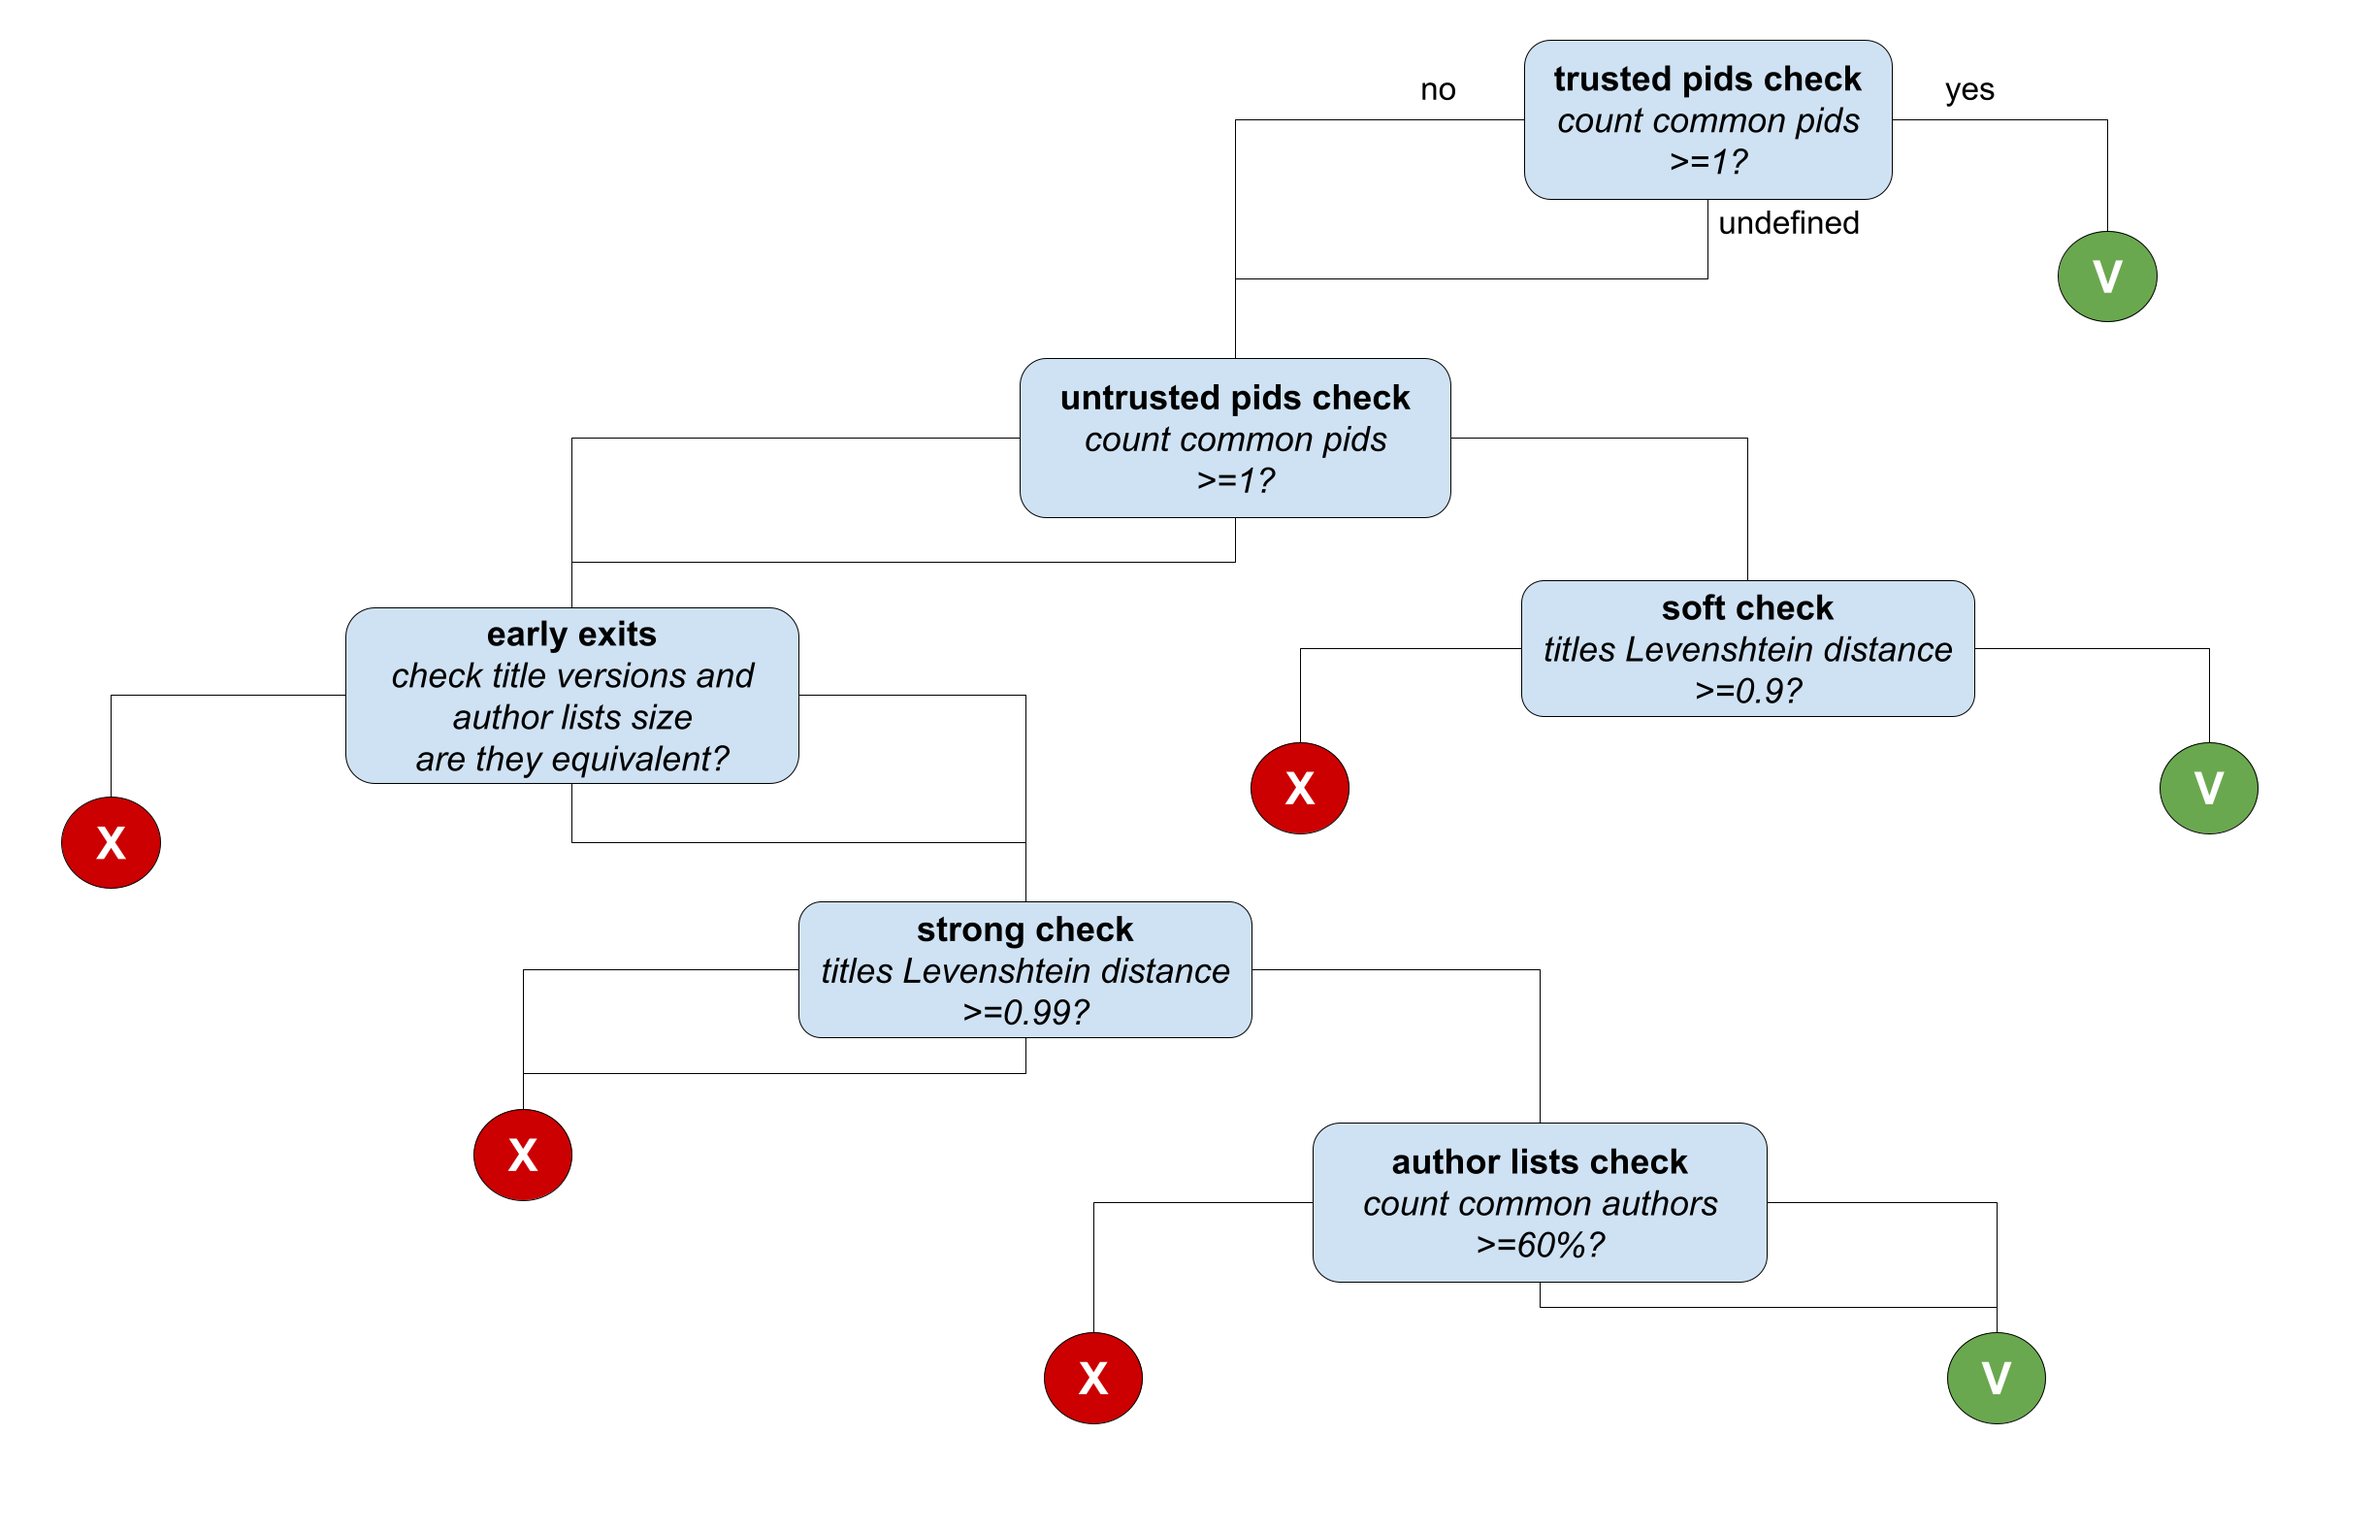
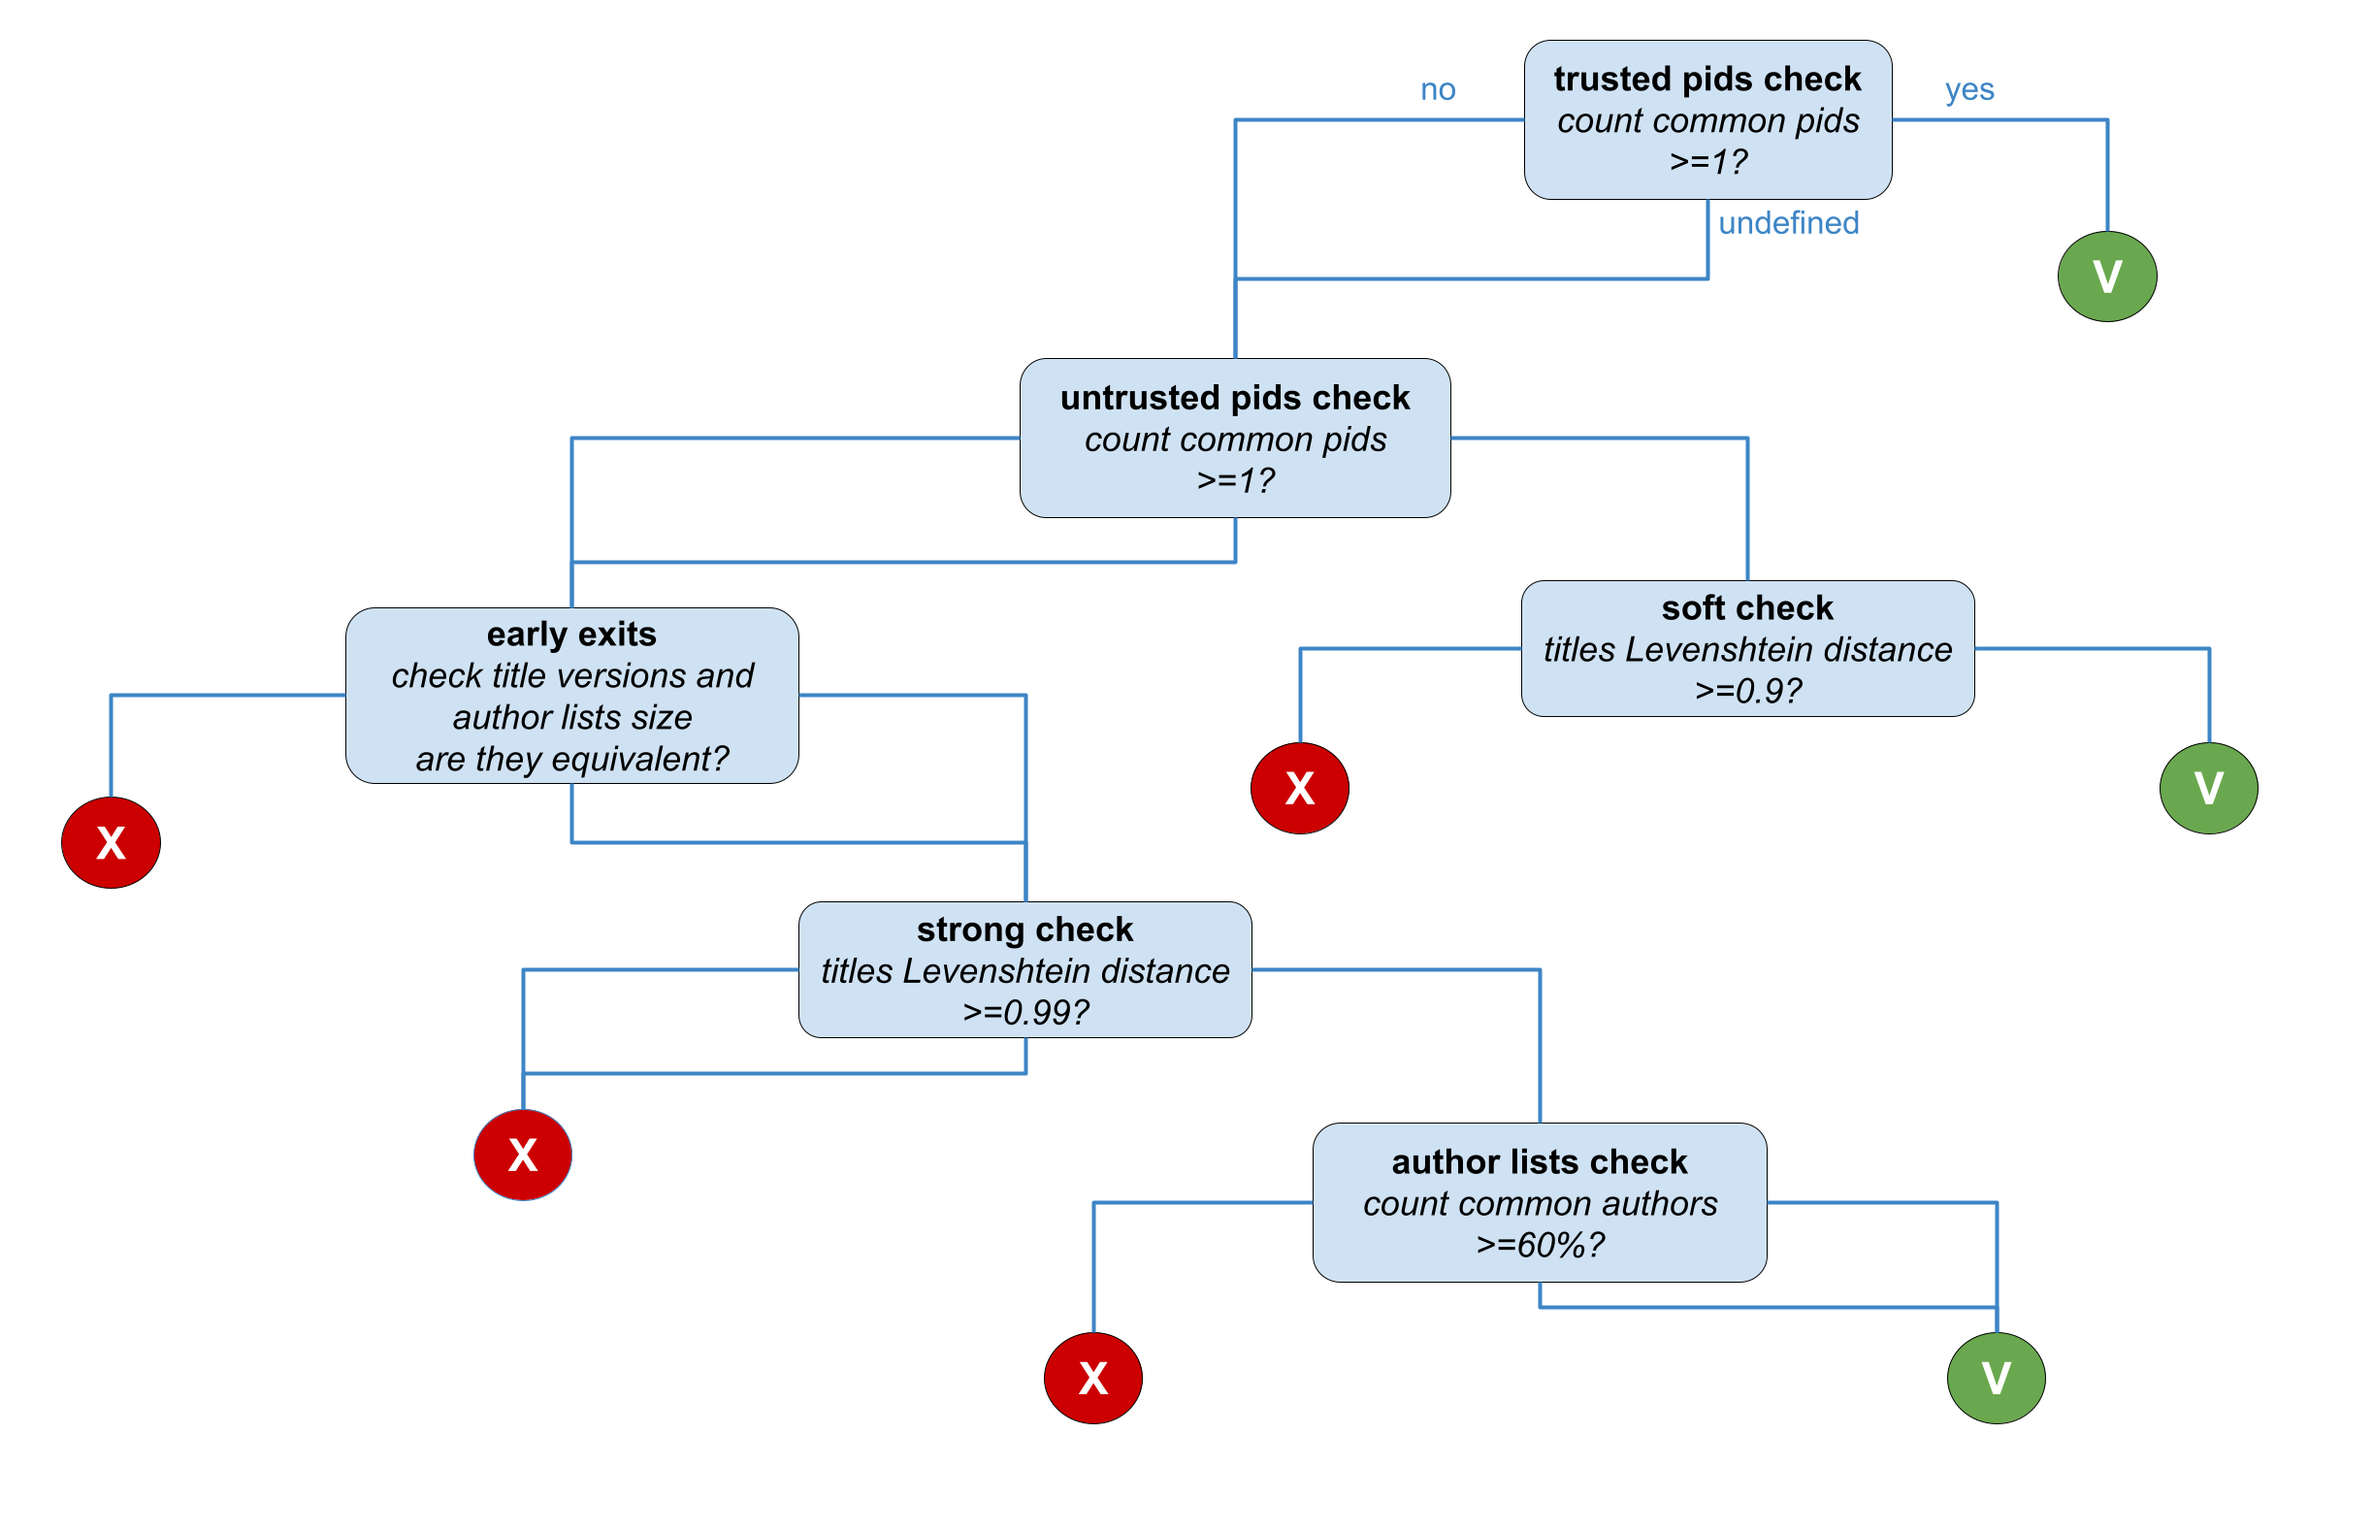
decision trees updated and link of images added in comments

diff --git a/docs/data-provision/deduplication/research-products.md b/docs/data-provision/deduplication/research-products.md
@@ -37,6 +37,8 @@ The comparison goes through different stages:
     <img loading="lazy" alt="Publications Decision Tree" src="/img/docs/decisiontree-publication.png" width="100%" className="img_node_modules-@docusaurus-theme-classic-lib-theme-MDXComponents-Img-styles-module"/>
 </p>
 
+[//]: # (Link to the image: https://docs.google.com/drawings/d/19SIilTp1vukw6STMZuPMdc0pv0ODYCiOxP7OU3iPWK8/edit?usp=sharing)
+
 #### Software
 For each pair of software in a cluster the following strategy (depicted in the figure below) is applied.
 The comparison goes through different stages:
@@ -48,6 +50,8 @@ The comparison goes through different stages:
     <img loading="lazy" alt="Software Decision Tree" src="/img/docs/decisiontree-software.png" width="85%" className="img_node_modules-@docusaurus-theme-classic-lib-theme-MDXComponents-Img-styles-module"/>
 </p>
 
+[//]: # (Link to the image: https://docs.google.com/drawings/d/19gd1-GTOEEo6awMObGRkYFhpAlO_38mfbDFFX0HAkuo/edit?usp=sharing)
+
 #### Datasets and Other types of research products
 For each pair of datasets or other types of research products in a cluster the strategy depicted in the figure below is applied.
 The decision tree is almost identical to the publication decision tree, with the only exception of the *instance type check* stage. Since such type of record does not have a relatable instance type, the check is not performed and the decision tree node is skipped.
@@ -55,6 +59,8 @@ The decision tree is almost identical to the publication decision tree, with the
 <p align="center">
     <img loading="lazy" alt="Dataset and Other types of research products Decision Tree" src="/img/docs/decisiontree-dataset-orp.png" width="90%" className="img_node_modules-@docusaurus-theme-classic-lib-theme-MDXComponents-Img-styles-module"/>
 </p>
+
+[//]: # (Link to the image: https://docs.google.com/drawings/d/1uBa7Bw2KwBRDUYIfyRr_Keol7UOeyvMNN7MPXYLg4qw/edit?usp=sharing)
 
 ### Duplicates grouping (transitive closure)
 

diff --git a/docs/data-provision/deduplication/organizations.md b/docs/data-provision/deduplication/organizations.md
@@ -46,6 +46,8 @@ The comparison goes through the following decision tree:
     <img loading="lazy" alt="Organization Decision Tree" src="/img/docs/decisiontree-organization.png" width="100%" className="img_node_modules-@docusaurus-theme-classic-lib-theme-MDXComponents-Img-styles-module"/>
 </p>
 
+[//]: # (Link to the image: https://docs.google.com/drawings/d/1YKInGGtHu09QG4pT2gRLEum4LxU82d4nKkvGNvRQmrg/edit?usp=sharing)
+
 ### Data Curation
 
 All the similarity relations drawn by the algorithm involving the decision tree are exposed in OpenOrgs, where are made available to the data curators to give feedbacks and to improve the organizations metadata.
